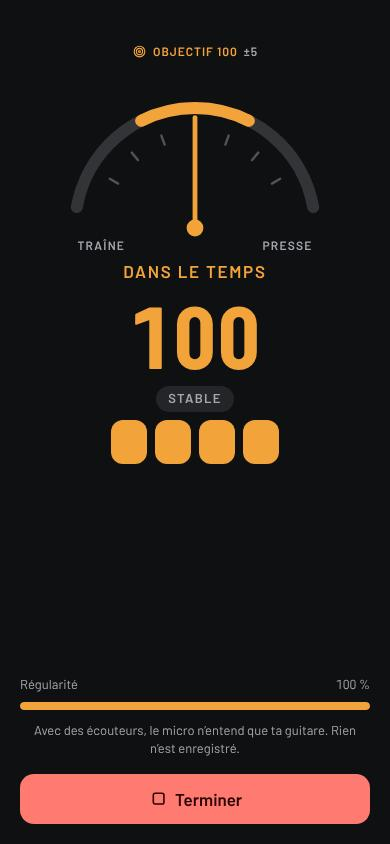
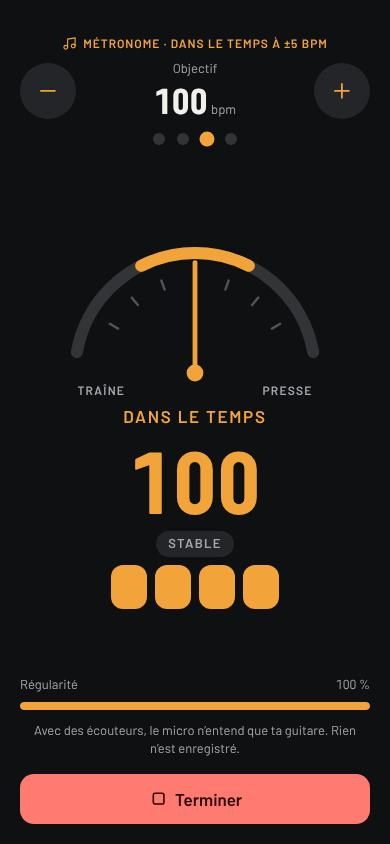
Lot 7 : tout sur un écran, lancer le métronome ouvre l'écoute du rythme (plus de bouton à part)
Claude-Session: https://claude.ai/code/session_01E4GheLNeomUphgoSEKV2uH

Changed region(s): [[0.1538, 0.0308, 0.8308, 0.7393], [0.8308, 0.0924, 0.9231, 0.1232], [0.0923, 0.0924, 0.1846, 0.1232]]

diff --git a/src/features/exercise/Metronome.tsx b/src/features/exercise/Metronome.tsx
@@ -5,7 +5,7 @@ import { Segmented } from '../../ui/Segmented'
 import { haptic } from '../../ui/spring'
 import { Stepper } from '../../ui/Stepper'
 import { canListen, startListening, type Listener } from './listen'
-import { RhythmCoach } from './RhythmCoach'
+import { MetronomeScreen } from './MetronomeScreen'
 import { clampBpm, initialBpm, resubdivide, schedule, subdivisionOf, type Click, type ClickKind, type Cursor } from './metronome'
 
 /** Ce que le métronome utilise d'un AudioContext (remplaçable dans les tests). */
@@ -173,10 +173,10 @@ export function Metronome({
   const [sub, setSub] = useState<number>(patternSub)
   const [playing, setPlaying] = useState(false)
   const [beat, setBeat] = useState(-1)
-  const [coach, setCoach] = useState<Listener | null>(null)
+  const [listener, setListener] = useState<Listener | null>(null)
   const engineRef = useRef<Engine | null>(null)
-  const coachRef = useRef<Listener | null>(null)
-  coachRef.current = coach
+  const listenerRef = useRef<Listener | null>(null)
+  listenerRef.current = listener
 
   const engine = () => (engineRef.current ??= new Engine(bpm, sub, createContext, setBeat))
 
@@ -185,44 +185,35 @@ export function Metronome({
     const onVisibility = () => {
       if (document.visibilityState !== 'hidden' || !engineRef.current?.playing) return
       engineRef.current.stop()
+      listenerRef.current?.stop()
+      setListener(null)
       setPlaying(false)
       setBeat(-1)
     }
     document.addEventListener('visibilitychange', onVisibility)
     return () => {
       document.removeEventListener('visibilitychange', onVisibility)
-      coachRef.current?.stop()
+      listenerRef.current?.stop()
       engineRef.current?.dispose()
       engineRef.current = null
     }
   }, [])
 
+  /** Lancer : le métronome joue et le micro écoute, les deux dans ce toucher (sinon iPhone garde l'audio muet). */
   const toggle = () => {
     haptic()
     const e = engine()
     if (e.playing) {
       e.stop()
+      listener?.stop()
+      setListener(null)
       setPlaying(false)
       setBeat(-1)
     } else if (e.start()) {
       setPlaying(true)
+      setListener(canListen() ? startListening() : null)
       onPlayed?.(e.bpm)
     }
-  }
-
-  /** Vérifier mon rythme : le métronome joue, le micro écoute (les deux démarrent dans ce toucher, pour iPhone). */
-  const openCoach = () => {
-    haptic()
-    const e = engine()
-    if (!e.playing && e.start()) {
-      setPlaying(true)
-      onPlayed?.(e.bpm)
-    }
-    setCoach(startListening())
-  }
-  const closeCoach = () => {
-    coach?.stop()
-    setCoach(null)
   }
 
   const changeBpm = (n: number) => {
@@ -301,15 +292,8 @@ export function Metronome({
         {jump(1)}
       </div>
 
-      <div className="flex items-center justify-between gap-4">
-        <div aria-hidden className="flex flex-1 justify-center gap-3">
-          {Array.from({ length: BEATS }, (_, i) => (
-            <span
-              key={i}
-              className={`size-3 rounded-full transition-transform duration-100 ${beat === i ? `scale-125 ${i === 0 ? 'bg-ink' : 'bg-guitar'}` : 'bg-fill-strong'}`}
-            />
-          ))}
-        </div>
+      <div className="flex items-center justify-end gap-4">
+        <p className="t-footnote flex-1 text-muted">Lance-le : le micro écoute ta guitare et te dit si tu es dans le temps.</p>
         <button
           type="button"
           onClick={toggle}
@@ -320,19 +304,8 @@ export function Metronome({
         </button>
       </div>
 
-      {canListen() && (
-        <button
-          type="button"
-          onClick={openCoach}
-          className="hit tap t-subhead flex items-center justify-center gap-1.5 rounded-lg bg-guitar/12 py-2.5 font-semibold text-guitar"
-        >
-          <Icon name="mic" />
-          Vérifier mon rythme
-        </button>
-      )}
-
       <p className="t-footnote text-muted">Le métronome sonne même en mode silencieux.</p>
-      {coach && <RhythmCoach bpm={bpm} listener={coach} onEnd={closeCoach} />}
+      {playing && <MetronomeScreen bpm={bpm} onBpm={changeBpm} beat={beat} beats={BEATS} listener={listener} onEnd={toggle} />}
     </section>
   )
 }

diff --git a/src/features/exercise/MetronomeScreen.tsx b/src/features/exercise/MetronomeScreen.tsx
@@ -2,6 +2,7 @@ import { useEffect, useRef, useState } from 'react'
 import { createPortal } from 'react-dom'
 import { Icon } from '../../design/icons'
 import { Button } from '../../ui/Button'
+import { Stepper } from '../../ui/Stepper'
 import type { Listener } from './listen'
 import { consistency, readRhythm, TOLERANCE_BPM, type RhythmRead, type Verdict } from './rhythm'
 
@@ -47,10 +48,24 @@ function Gauge({ needle, on }: { needle: number; on: boolean }) {
 }
 
 /**
- * Vérifier mon rythme (lot 7) : le micro écoute pendant que le métronome joue. Tempo joué, dans le temps ou
- * non (± 5 bpm), stabilité et régularité de la séance. Écran plein, « Terminer » pour revenir à l'exo.
+ * Métronome en plein écran (lot 7), tout sur une page : le tempo (− / +), les temps qui s'allument, et le micro qui
+ * écoute ta guitare. Tempo joué, dans le temps ou non (± 5 bpm), stabilité, régularité. « Terminer » arrête tout.
  */
-export function RhythmCoach({ bpm, listener, onEnd }: { bpm: number; listener: Listener; onEnd: () => void }) {
+export function MetronomeScreen({
+  bpm,
+  onBpm,
+  beat,
+  beats,
+  listener,
+  onEnd,
+}: {
+  bpm: number
+  onBpm: (n: number) => void
+  beat: number
+  beats: number
+  listener: Listener | null
+  onEnd: () => void
+}) {
   const [state, setState] = useState<'starting' | 'listening' | 'denied'>('starting')
   const [read, setRead] = useState<RhythmRead | null>(null)
   const [verdicts, setVerdicts] = useState<Verdict[]>([])
@@ -59,6 +74,7 @@ export function RhythmCoach({ bpm, listener, onEnd }: { bpm: number; listener: L
   const lastAt = useRef(0)
 
   useEffect(() => {
+    if (!listener) return
     let live = true
     listener.ready.then(
       () => live && setState('listening'),
@@ -95,21 +111,44 @@ export function RhythmCoach({ bpm, listener, onEnd }: { bpm: number; listener: L
   const showing = !idle && read?.verdict ? read : null
   const on = showing?.verdict === 'on'
   const score = consistency(verdicts)
-  const status = state === 'denied' ? 'Micro refusé' : state === 'starting' ? 'Préparation du micro…' : showing ? STATUS[showing.verdict!] : 'Joue, j’écoute…'
+  const status = !listener
+    ? 'Métronome seul'
+    : state === 'denied'
+      ? 'Micro refusé'
+      : state === 'starting'
+        ? 'Préparation du micro…'
+        : showing
+          ? STATUS[showing.verdict!]
+          : 'Joue, j’écoute…'
 
   return createPortal(
     <div
       role="dialog"
       aria-modal
-      aria-label="Vérifier mon rythme"
+      aria-label="Métronome"
       className="fixed inset-0 z-50 flex flex-col items-center bg-bg px-5 pt-[max(env(safe-area-inset-top),20px)] pb-[max(env(safe-area-inset-bottom),20px)]"
     >
-      <p className="t-overline mt-6 flex items-center gap-1.5 text-guitar">
-        <Icon name="target" />
-        Objectif {bpm} <span className="text-muted">±{TOLERANCE_BPM}</span>
+      <p className="t-overline mt-4 flex items-center gap-1.5 text-guitar">
+        <Icon name="guitar" />
+        Métronome · dans le temps à ±{TOLERANCE_BPM} bpm
       </p>
+      <div className="mt-2 w-full">
+        <Stepper tone="guitar" label="Objectif" onMinus={() => onBpm(bpm - 1)} onPlus={() => onBpm(bpm + 1)}>
+          <p className="tabular-nums">
+            <span className="t-large">{bpm}</span> <span className="t-footnote text-muted">bpm</span>
+          </p>
+        </Stepper>
+      </div>
+      <div aria-hidden className="mt-3 flex justify-center gap-3">
+        {Array.from({ length: beats }, (_, i) => (
+          <span
+            key={i}
+            className={`size-3 rounded-full transition-transform duration-100 ${beat === i ? `scale-125 ${i === 0 ? 'bg-ink' : 'bg-guitar'}` : 'bg-fill-strong'}`}
+          />
+        ))}
+      </div>
 
-      <div className="mt-6 flex w-full flex-1 flex-col items-center gap-2">
+      <div className="mt-4 flex w-full flex-1 flex-col items-center justify-center gap-2">
         <Gauge needle={showing?.needle ?? 0} on={on} />
         <p role="status" aria-live="polite" className={`t-headline tracking-widest uppercase ${on ? 'text-guitar' : 'text-ink'}`}>
           {status}

diff --git a/src/features/exercise/Metronome.test.tsx b/src/features/exercise/Metronome.test.tsx
@@ -51,7 +51,7 @@ test('lancer programme des oscillateurs, le premier à 1600 Hz, dans le geste', 
   expect(audio.oscillators()[0].stop).toHaveBeenCalledWith(expect.closeTo(0.1))
   expect(audio.ctx.createGain).toHaveBeenCalledTimes(1)
   expect(onPlayed).toHaveBeenCalledWith(120)
-  expect(screen.getByRole('button', { name: 'Arrêter le métronome' })).toBeInTheDocument()
+  expect(screen.getByRole('button', { name: 'Terminer' })).toBeInTheDocument()
 
   // 120 bpm en croches : un clic tous les 0,25 s, accent sur le 1, temps, subdivisions.
   await audio.play(1000)
@@ -109,7 +109,7 @@ test('arrêter : plus aucun nouvel oscillateur', async () => {
   const count = audio.ctx.createOscillator.mock.calls.length
   expect(count).toBeGreaterThan(1)
 
-  await user.click(screen.getByRole('button', { name: 'Arrêter le métronome' }))
+  await user.click(screen.getByRole('button', { name: 'Terminer' }))
   expect(audio.ctx.suspend).toHaveBeenCalled()
   await audio.play(2000)
   expect(audio.ctx.createOscillator).toHaveBeenCalledTimes(count)
@@ -189,29 +189,30 @@ test('mode silencieux de l’iPhone : session audio « playback » pendant la le
     expect(screen.getByText('Le métronome sonne même en mode silencieux.')).toBeInTheDocument()
     await user.click(screen.getByRole('button', { name: 'Lancer le métronome' }))
     expect(session.type).toBe('playback')
-    await user.click(screen.getByRole('button', { name: 'Arrêter le métronome' }))
+    await user.click(screen.getByRole('button', { name: 'Terminer' }))
     expect(session.type).toBe('auto')
   } finally {
     Reflect.deleteProperty(navigator, 'audioSession')
   }
 })
 
-test('les points de temps s’allument quand le clic sonne', async () => {
+test('lancé : plein écran, les points de temps s’allument quand le clic sonne ; « Terminer » referme', async () => {
   const audio = fakeAudio()
   const user = setup()
-  const { container } = render(<Metronome pattern={QUARTERS} best={60} startBpm={70} targetBpm={100} challengeBpm={null} createContext={audio.create} />)
+  render(<Metronome pattern={QUARTERS} best={60} startBpm={70} targetBpm={100} challengeBpm={null} createContext={audio.create} />)
   const dots = () =>
-    [...container.querySelectorAll('[aria-hidden] > span')].map((d) =>
+    [...document.querySelectorAll('[role="dialog"] [aria-hidden] > span')].map((d) =>
       d.className.includes('bg-fill-strong') ? '·' : d.className.includes('bg-ink') ? 'F' : 'G',
     )
-  expect(dots()).toEqual(['·', '·', '·', '·'])
+  expect(screen.queryByRole('dialog')).not.toBeInTheDocument()
   await user.click(screen.getByRole('button', { name: 'Lancer le métronome' }))
+  expect(dots()).toEqual(['·', '·', '·', '·'])
   await audio.play(100)
   expect(dots()).toEqual(['F', '·', '·', '·'])
   await audio.play(1000)
   expect(dots()).toEqual(['·', 'G', '·', '·'])
-  await user.click(screen.getByRole('button', { name: 'Arrêter le métronome' }))
-  expect(dots()).toEqual(['·', '·', '·', '·'])
+  await user.click(screen.getByRole('button', { name: 'Terminer' }))
+  expect(screen.queryByRole('dialog')).not.toBeInTheDocument()
 })
 
 test('navigateur sans audio web : le bouton ne plante pas', async () => {

diff --git a/src/features/exercise/MetronomeScreen.test.tsx b/src/features/exercise/MetronomeScreen.test.tsx
@@ -2,7 +2,7 @@ import { act, render, screen } from '@testing-library/react'
 import userEvent from '@testing-library/user-event'
 import { describe, expect, test, vi } from 'vitest'
 import type { Listener } from './listen'
-import { RhythmCoach } from './RhythmCoach'
+import { MetronomeScreen } from './MetronomeScreen'
 
 const fake = (ready: Promise<void> = Promise.resolve()): Listener => ({ ready, onOnset: null, stop: vi.fn() })
 const play = (l: Listener, every: number, n = 9) =>
@@ -10,10 +10,18 @@ const play = (l: Listener, every: number, n = 9) =>
     for (let i = 0; i < n; i++) l.onOnset!(1 + i * every)
   })
 
-describe('Vérifier mon rythme', () => {
+describe('Métronome plein écran', () => {
+  test('sans micro : métronome seul ; le tempo se règle sur la même page', async () => {
+    const onBpm = vi.fn()
+    render(<MetronomeScreen bpm={100} onBpm={onBpm} beat={0} beats={4} listener={null} onEnd={() => {}} />)
+    expect(screen.getByRole('status')).toHaveTextContent('Métronome seul')
+    await userEvent.click(screen.getByRole('button', { name: 'Objectif +' }))
+    expect(onBpm).toHaveBeenCalledWith(101)
+  })
+
   test('dans le temps : tempo joué, statut, stabilité, régularité', async () => {
     const l = fake()
-    render(<RhythmCoach bpm={100} listener={l} onEnd={() => {}} />)
+    render(<MetronomeScreen bpm={100} onBpm={() => {}} beat={-1} beats={4} listener={l} onEnd={() => {}} />)
     expect(await screen.findByRole('status')).toHaveTextContent('Joue, j’écoute…')
     play(l, 0.6)
     expect(screen.getByRole('status')).toHaveTextContent('Dans le temps')
@@ -24,7 +32,7 @@ describe('Vérifier mon rythme', () => {
 
   test('trop vite : « Tu presses » ; la régularité baisse', async () => {
     const l = fake()
-    render(<RhythmCoach bpm={100} listener={l} onEnd={() => {}} />)
+    render(<MetronomeScreen bpm={100} onBpm={() => {}} beat={-1} beats={4} listener={l} onEnd={() => {}} />)
     await screen.findByText('Joue, j’écoute…')
     play(l, 0.6)
     play(l, 60 / 115)
@@ -34,7 +42,7 @@ describe('Vérifier mon rythme', () => {
 
   test('micro refusé : message ; « Terminer » referme', async () => {
     const onEnd = vi.fn()
-    render(<RhythmCoach bpm={100} listener={fake(Promise.reject(new Error('non')))} onEnd={onEnd} />)
+    render(<MetronomeScreen bpm={100} onBpm={() => {}} beat={-1} beats={4} listener={fake(Promise.reject(new Error('non')))} onEnd={onEnd} />)
     expect(await screen.findByRole('alert')).toHaveTextContent('Autorise le micro')
     await userEvent.click(screen.getByRole('button', { name: 'Terminer' }))
     expect(onEnd).toHaveBeenCalled()

diff --git a/src/features/exercise/ExercisePage.test.tsx b/src/features/exercise/ExercisePage.test.tsx
@@ -106,7 +106,7 @@ test('« Logger cet exo » après lecture : le dernier tempo joué est transmis'
   renderPage('legato-4', { guitarSessions: [g('2026-10-10', 30, [ex('legato-4', 80)])] })
   await userEvent.click(screen.getByRole('button', { name: 'Lancer le métronome' }))
   await userEvent.click(screen.getByRole('button', { name: 'Tempo +' }))
-  await userEvent.click(screen.getByRole('button', { name: 'Arrêter le métronome' }))
+  await userEvent.click(screen.getByRole('button', { name: 'Terminer' }))
   await userEvent.click(screen.getByRole('button', { name: 'Logger cet exo' }))
   expect(screen.getByText('at /log/guitare {"exerciseId":"legato-4","bpm":81}')).toBeInTheDocument()
 })
@@ -118,7 +118,7 @@ test('« Logger cet exo » : le tempo le plus rapide joué est transmis, même a
   await userEvent.click(screen.getByRole('button', { name: 'Tempo +' }))
   await userEvent.click(screen.getByRole('button', { name: 'Tempo +' }))
   await userEvent.click(screen.getByRole('button', { name: 'Tempo −' }))
-  await userEvent.click(screen.getByRole('button', { name: 'Arrêter le métronome' }))
+  await userEvent.click(screen.getByRole('button', { name: 'Terminer' }))
   await userEvent.click(screen.getByRole('button', { name: 'Logger cet exo' }))
   expect(screen.getByText('at /log/guitare {"exerciseId":"legato-4","bpm":82}')).toBeInTheDocument()
 })

diff --git a/docs/REFONTE-JOURNAL.md b/docs/REFONTE-JOURNAL.md
@@ -4,7 +4,7 @@ Pour reprendre une session : lire `docs/REFONTE.md` (le cahier des charges), pui
 
 ## Où on en est
 
-**Lots 1, 2 et 3 en ligne sur `/motiv/` (« Push tout », 20 oct.).** Lot 3b (refonte visuelle, plan sport complet, indisponibilités) en ligne aussi (« Push tout », 20 oct.). Lot 4 (Progrès et rythme, « Mes séances ») en ligne aussi (« Push tout », 21 oct.). Lot 5 (Preuves et anti-stagnation) en ligne aussi (« Push tout », 21 oct.). Les 5 lots de la refonte sont en ligne. Lot 6 (courses Strava par fichier) en ligne aussi (« Push tout », 21 oct.). Lot 7 (vérifier mon rythme au métronome) sur l'essai, en attente de validation.
+**Lots 1, 2 et 3 en ligne sur `/motiv/` (« Push tout », 20 oct.).** Lot 3b (refonte visuelle, plan sport complet, indisponibilités) en ligne aussi (« Push tout », 20 oct.). Lot 4 (Progrès et rythme, « Mes séances ») en ligne aussi (« Push tout », 21 oct.). Lot 5 (Preuves et anti-stagnation) en ligne aussi (« Push tout », 21 oct.). Les 5 lots de la refonte sont en ligne. Lot 6 (courses Strava par fichier) en ligne aussi (« Push tout », 21 oct.). Lot 7 (métronome qui écoute ton rythme, tout sur un écran) sur l'essai, en attente de validation.
 
 ## Fait
 
@@ -105,7 +105,7 @@ Pour reprendre une session : lire `docs/REFONTE.md` (le cahier des charges), pui
   - Base en version 2 : une table `media` en plus, rien d'autre ne bouge ; montée testée sur une copie de tes données. Export avec ou sans photos et audio.
   - Corrigé : Sauvegarde en double dans Réglages ; « Gagné en … » vide quand tout l'historique tient dans la période.
 - 21 oct. 2026 : **lot 6 — Courses Strava** (détails dans `docs/lots/LOT-6.md`). Import par fichier (activities.csv ou .gpx), aperçu, doublons ignorés ; pas de serveur ni de secret.
-- 26 oct. 2026 : **lot 7 — Vérifier mon rythme** (détails dans `docs/lots/LOT-7.md`). Écran plein depuis le métronome : jauge traîne / presse, tempo joué, stabilité, régularité ; micro analysé sur le téléphone.
+- 26 oct. 2026 : **lot 7 — Métronome qui écoute ton rythme** (détails dans `docs/lots/LOT-7.md`). Lancer le métronome ouvre un seul écran : tempo − / +, temps : jauge traîne / presse, tempo joué, stabilité, régularité ; micro analysé sur le téléphone.
 
 ## Décidé (détails, option la plus simple)
 

diff --git a/docs/lots/LOT-7.md b/docs/lots/LOT-7.md
@@ -1,4 +1,4 @@
-# Lot 7 — Vérifier mon rythme
+# Lot 7 — Métronome qui écoute ton rythme
 
 _26 oct. 2026. Demande : « quand je joue avec le métronome, détecter si je suis dans le rythme », écran sur le modèle de Kizamu (capture envoyée)._
 
@@ -6,13 +6,14 @@ _26 oct. 2026. Demande : « quand je joue avec le métronome, détecter si je su
 
 ## Ce qui change
 
-- **Fiche exo › Métronome › « Vérifier mon rythme »** : le métronome démarre (s'il ne joue pas déjà) et un écran plein s'ouvre, le micro écoute.
-  - En haut, l'objectif : le tempo du métronome, ± 5 bpm.
-  - Une jauge TRAÎNE / PRESSE, avec la zone « dans le temps » en couleur et l'aiguille sur ton tempo.
-  - « Dans le temps », « Tu presses » ou « Tu traînes », et ton tempo joué en grand.
-  - Stabilité en 4 barres (régularité de tes intervalles).
-  - Régularité de la séance : la part du temps passé dans le temps, en %.
-  - « Terminer » referme l'écran ; le métronome continue.
+Retour : « tout sur la même page, pas d'options cachées ». Plus de bouton à part : **lancer le métronome ouvre un seul écran plein** avec tout dessus.
+
+- En haut, le tempo du métronome avec − / + (l'objectif), et les 4 temps qui s'allument.
+- Le micro écoute tout seul : une jauge TRAÎNE / PRESSE, la zone « dans le temps » (± 5 bpm) en couleur, l'aiguille sur ton tempo.
+- « Dans le temps », « Tu presses » ou « Tu traînes », et ton tempo joué en grand.
+- Stabilité en 4 barres (régularité de tes intervalles), régularité de la séance en %.
+- « Terminer » arrête le métronome et le micro.
+- Sans micro (refusé ou navigateur qui ne sait pas) : le même écran, en métronome seul.
 - Croches, triolets ou doubles : chaque intervalle est ramené au temps, le tempo lu reste celui du métronome.
 - Rien n'est enregistré : le son du micro est analysé sur le téléphone, puis oublié.
 
